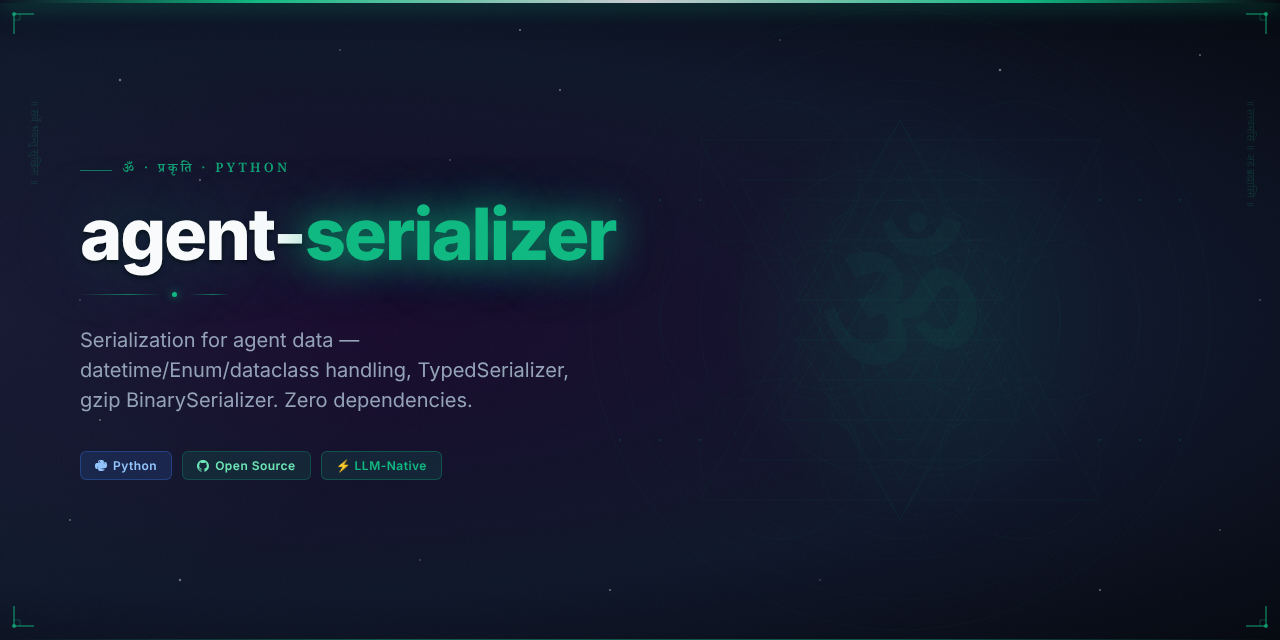
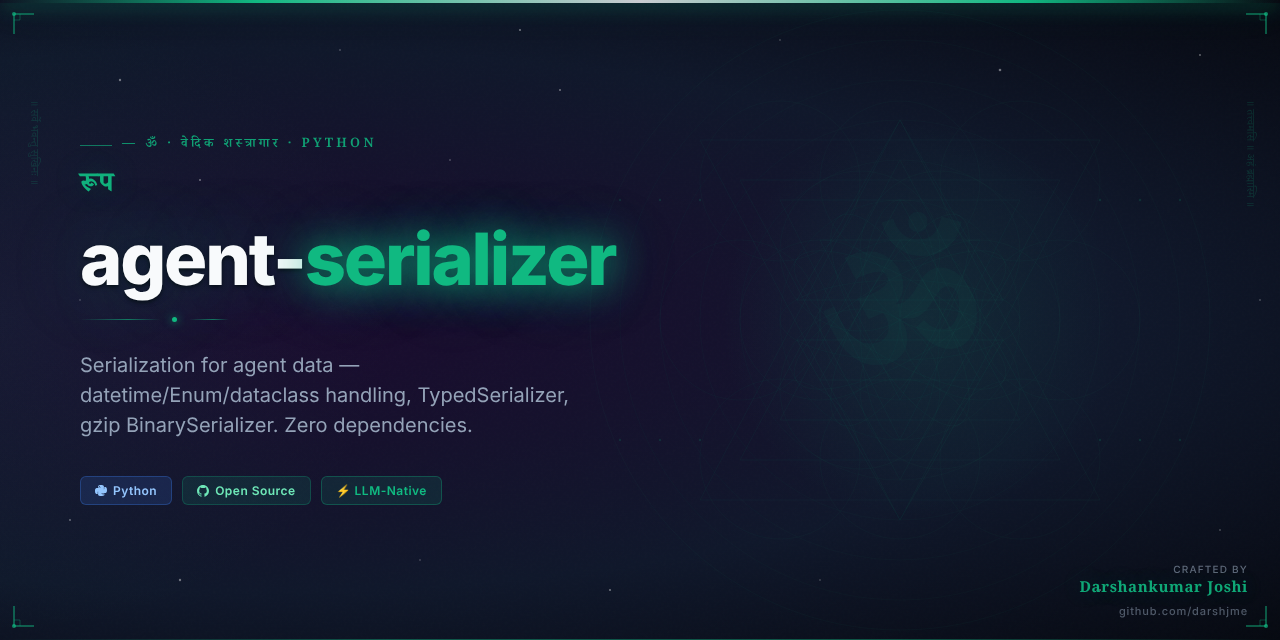
feat: add Vedic Arsenal hero image and updated README
Part of darshjme/arsenal — 100 production-grade Python libraries for LLM agents.
Vedic branding: ancient philosophy meets modern AI engineering.

diff --git a/README.md b/README.md
@@ -1,10 +1,12 @@
 <div align="center">
 
-<img src="assets/agent-serializer-hero.png" alt="agent-serializer — Vedic Arsenal" width="100%" />
+<img src="assets/agent-serializer-hero.png" alt="agent-serializer — Vedic Arsenal by Darshankumar Joshi" width="100%" />
 
 # 🌿 agent-serializer
 
-### *रूप* — Rupa — form, the art of serialization
+<h3><em>रूप</em></h3>
+
+> *Rupa — form, the art of serialization*
 
 **Serialization for agent data — datetime/Enum/dataclass handling, TypedSerializer, gzip BinarySerializer. Zero dependencies.**
 
@@ -39,6 +41,19 @@ Or clone directly:
 git clone https://github.com/darshjme/agent-serializer.git
 cd agent-serializer
 pip install -e .
+```
+
+## How It Works
+
+```mermaid
+flowchart LR
+    A[Input] --> B[agent-serializer]
+    B --> C{Process}
+    C -- Success --> D[Output]
+    C -- Error --> E[Handle / Retry]
+    E --> B
+    style B fill:#6b21a8,color:#fff
+    note["Serializer — Zero Dependencies"]
 ```
 
 ## Quick Start
@@ -90,7 +105,7 @@ MIT — use freely, build freely.
 
 <div align="center">
 
-**Built with 🌿 by [Darshankumar Joshi](https://github.com/darshjme)**
+**Built with 🌿 by [Darshankumar Joshi](https://github.com/darshjme)** · [@thedarshanjoshi](https://twitter.com/thedarshanjoshi)
 
 *"कर्मण्येवाधिकारस्ते मा फलेषु कदाचन"*
 *Your right is to action alone, never to the fruits thereof.*
